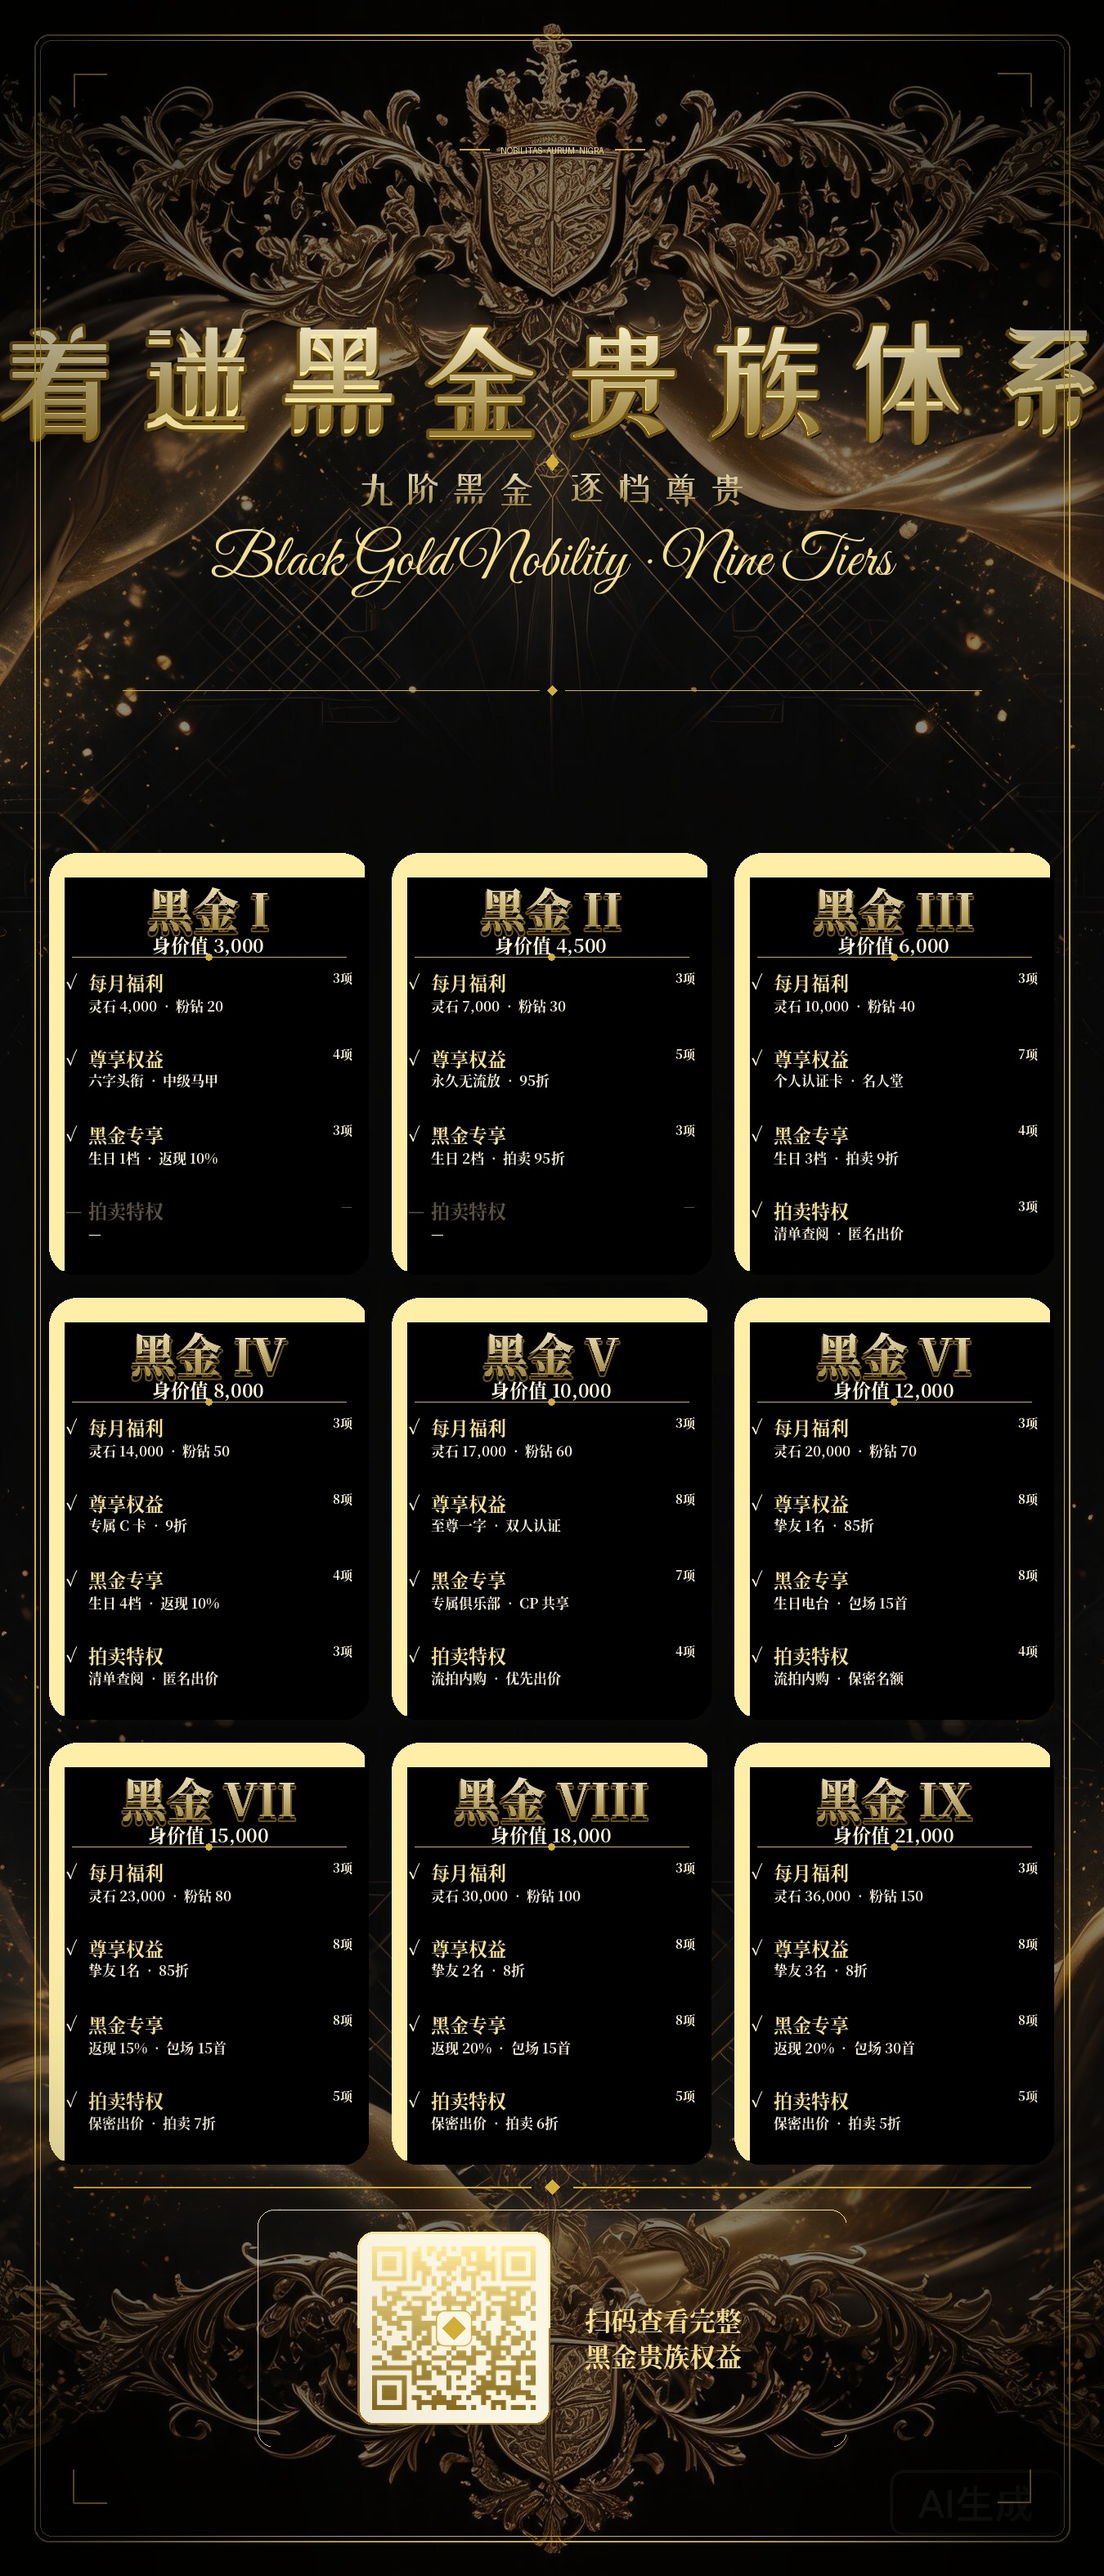
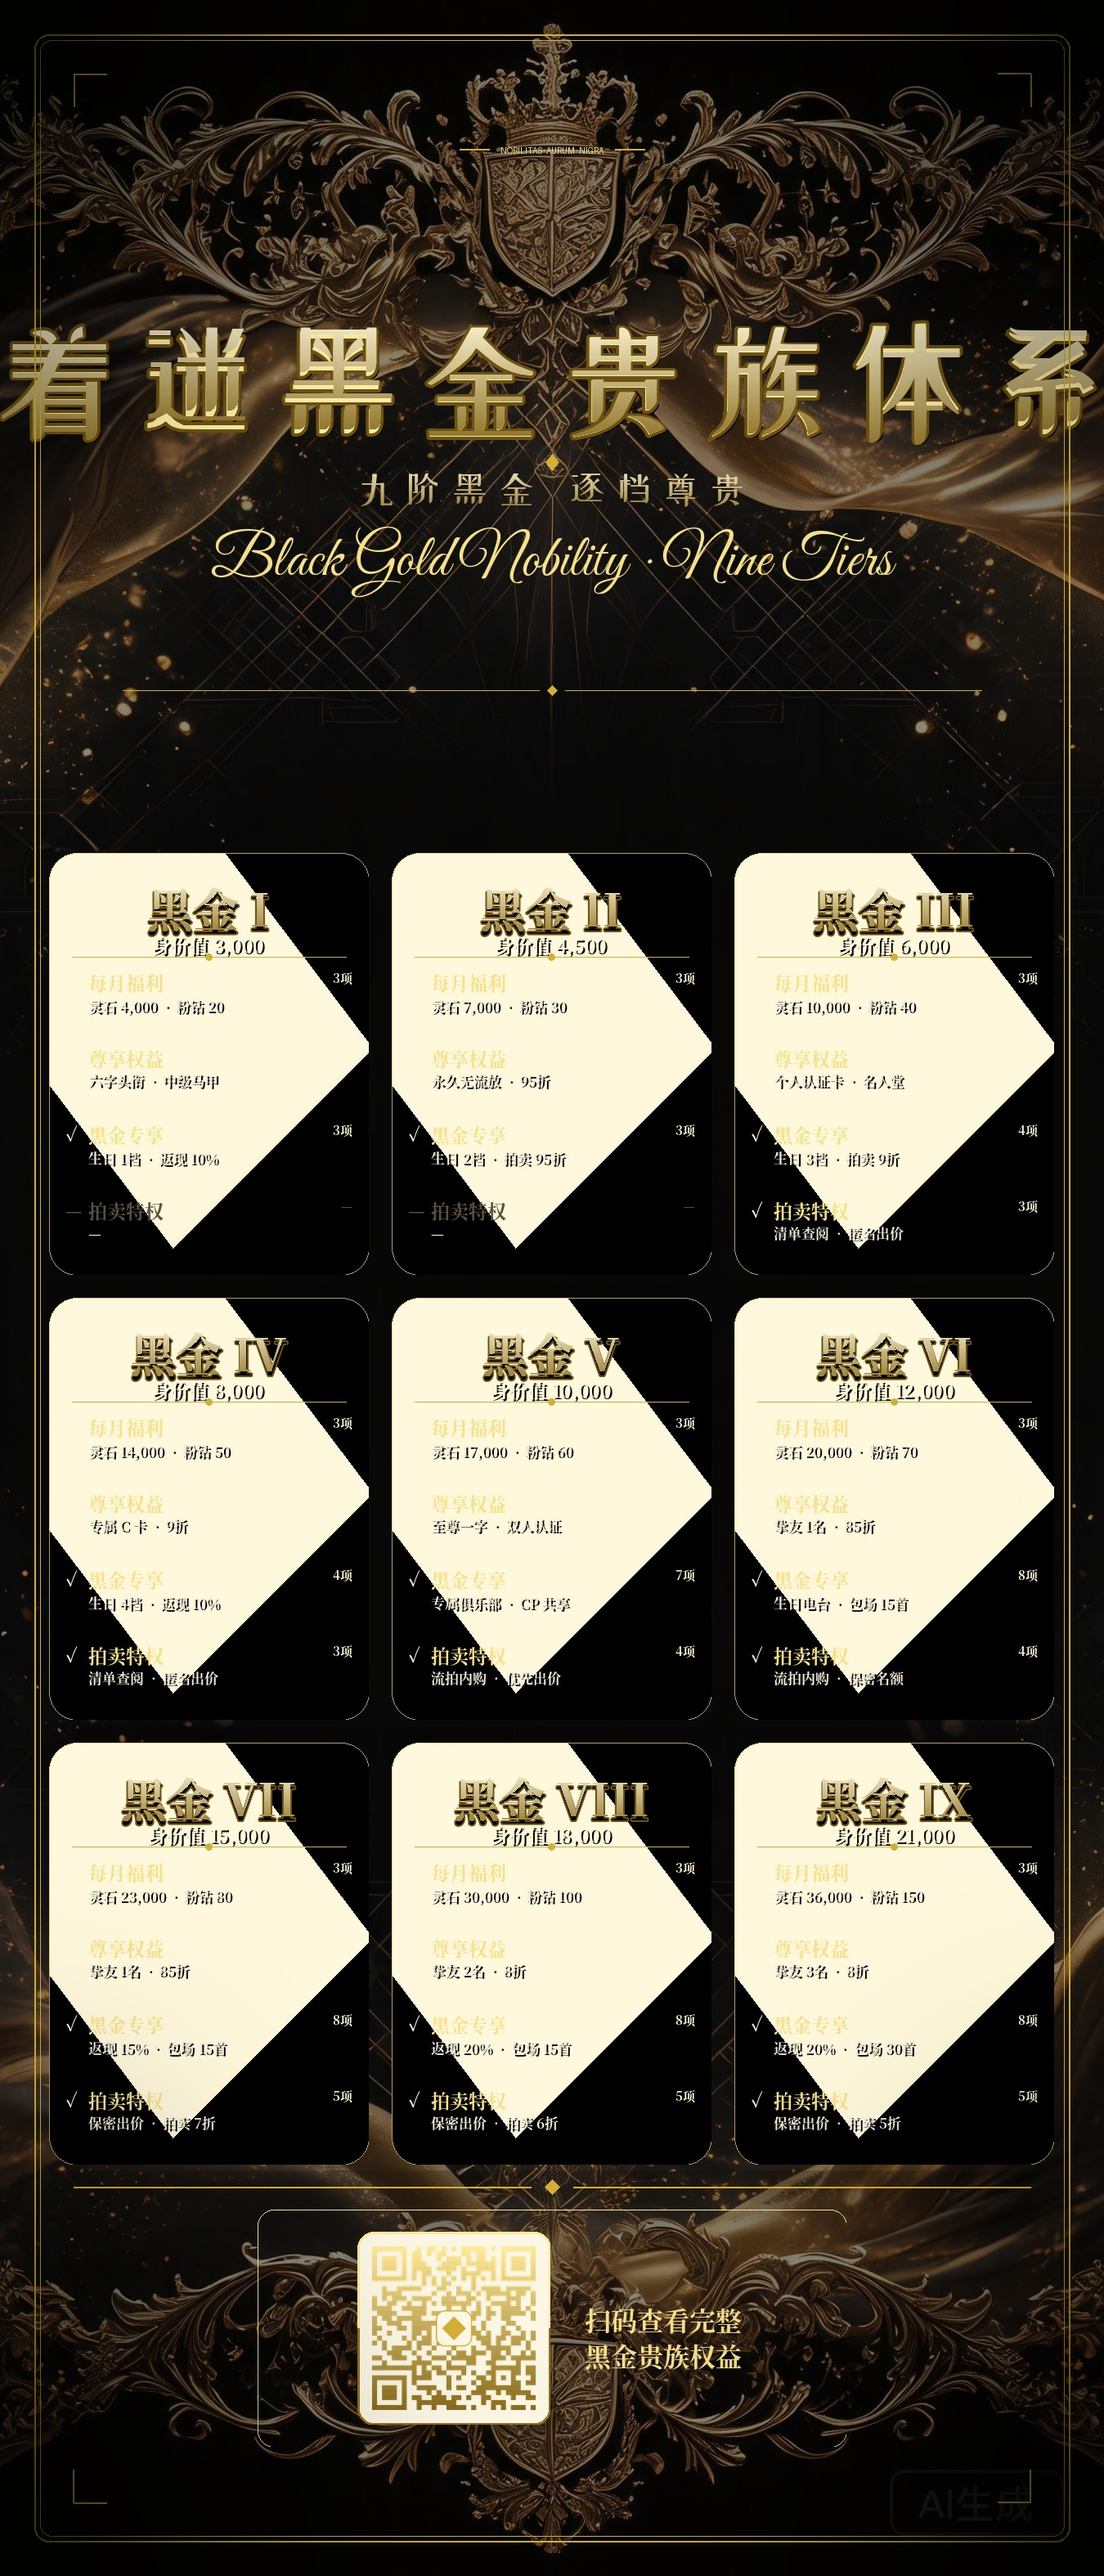
refine: 金边改为1px极简金线，卡片底色改为半透明半黑

Changed region(s): [[0.0311, 0.3111, 0.9644, 0.84]]

diff --git a/make_poster.py b/make_poster.py
@@ -258,7 +258,7 @@ def card_pos(i):
     return x,y
 
 def glass_card(x,y,w,h,i):
-    """水晶玻璃卡片：高透玻璃底 + 左上扫光 + 细金描边 + 内边缘光晕 + 柔和投影"""
+    """水晶玻璃卡片：半透明半黑底 + 左上扫光 + 1px 极简金边 + 柔和投影"""
     R=34  # 圆角
 
     # ===== 1. 柔和下投影（悬浮感，极淡）=====
@@ -272,67 +272,40 @@ def glass_card(x,y,w,h,i):
     shadow.putalpha(smask)
     canvas.alpha_composite(shadow,(x-30,y))
 
-    # ===== 2. 高透明玻璃底（深色玻璃，背景清晰透出）=====
+    # ===== 2. 半透明半黑底（无纯黑底色，背景清晰透出）=====
     base=Image.new('RGBA',(w,h),(0,0,0,0))
     bd=ImageDraw.Draw(base)
     for yy in range(h):
         tt=yy/max(h-1,1)
-        a=int(72+18*(0.5-tt))   # alpha 63~81（够透：背景能看见，卡片也有存在感）
-        bd.line([(0,yy),(w,yy)],fill=(22,18,26,a))
-    # 圆角遮罩
+        a=int(46+12*(0.5-tt))   # alpha 40~52（极透：背景清晰可见）
+        bd.line([(0,yy),(w,yy)],fill=(0,0,0,a))
     rmask=Image.new('L',(w,h),0)
     ImageDraw.Draw(rmask).rounded_rectangle((0,0,w,h),radius=R,fill=255)
     base.putalpha(rmask)
     canvas.alpha_composite(base,(x,y))
 
-    # ===== 3. 左上扫光（暖白色对角扫过，水晶反光核心）=====
+    # ===== 3. 左上扫光（暖白色对角扫过）=====
     sweep=Image.new('RGBA',(w,h),(0,0,0,0))
     swd=ImageDraw.Draw(sweep)
     for yy in range(h):
         for xx in range(w):
-            # 主对角线方程 y = x*h/w
             diag_y=xx*h/w
             dist=abs(yy-diag_y)
-            # 到对角线距离归一化（沿宽方向）
-            d_norm=dist/(h*0.55)   # 扫光带宽度扩大
-            # 沿对角线进度
+            d_norm=dist/(h*0.55)
             prog=(xx+yy)/(w+h)
-            # 左上三角区：prog 小（左上）且 d_norm 小（靠近对角线）
             if prog<0.70 and d_norm<1.0:
                 intensity=(1-prog/0.70)*(1-d_norm)**1.0
-                a=int(180*intensity)   # 加强：max 180
+                a=int(150*intensity)
                 swd.point((xx,yy),fill=(255,248,220,a))
     sweep.putalpha(rmask)
     canvas.alpha_composite(sweep,(x,y))
 
-    # ===== 4. 细金描边（2px 精致金边，上亮下暗渐变）=====
+    # ===== 4. 1px 极简金边（纯金细线，无渐变，高级简约）=====
     border=Image.new('RGBA',(w,h),(0,0,0,0))
     bdr=ImageDraw.Draw(border)
-    for yy in range(h):
-        tt=yy/max(h-1,1)
-        cr=int(GOLD_HI[0]+(GOLD_DK[0]-GOLD_HI[0])*tt)
-        cg=int(GOLD_HI[1]+(GOLD_DK[1]-GOLD_HI[1])*tt)
-        cb=int(GOLD_HI[2]+(GOLD_DK[2]-GOLD_HI[2])*tt)
-        ca=int(210-tt*50)
-        bdr.line([(0,yy),(w,yy)],fill=(cr,cg,cb,ca))
-    ring=Image.new('L',(w,h),0)
-    ImageDraw.Draw(ring).rounded_rectangle((0,0,w,h),radius=R,fill=0,outline=255,width=2)
-    border.putalpha(ring)
+    # 统一金色细线（GOLD 247,224,138，略带不透明）
+    bdr.rounded_rectangle((0,0,w,h),radius=R,outline=(230,200,110,200),width=1)
     canvas.alpha_composite(border,(x,y))
-
-    # ===== 5. 内边缘光晕（顶部 + 左侧，水晶棱边反光）=====
-    inner_glow=Image.new('RGBA',(w,h),(0,0,0,0))
-    igd=ImageDraw.Draw(inner_glow)
-    for yy in range(int(h*0.06)):
-        tt=yy/(h*0.06)
-        a=int(75*(1-tt)**1.8)
-        igd.line([(6,yy),(w-6,yy)],fill=(255,238,168,a))
-    for xx in range(int(w*0.05)):
-        tt=xx/(w*0.05)
-        a=int(55*(1-tt)**1.8)
-        igd.line([(xx,6),(xx,h-6)],fill=(255,238,168,a))
-    inner_glow.putalpha(rmask)
-    canvas.alpha_composite(inner_glow,(x,y))
 
 for i,t in enumerate(TIERS):
     x,y=card_pos(i)
